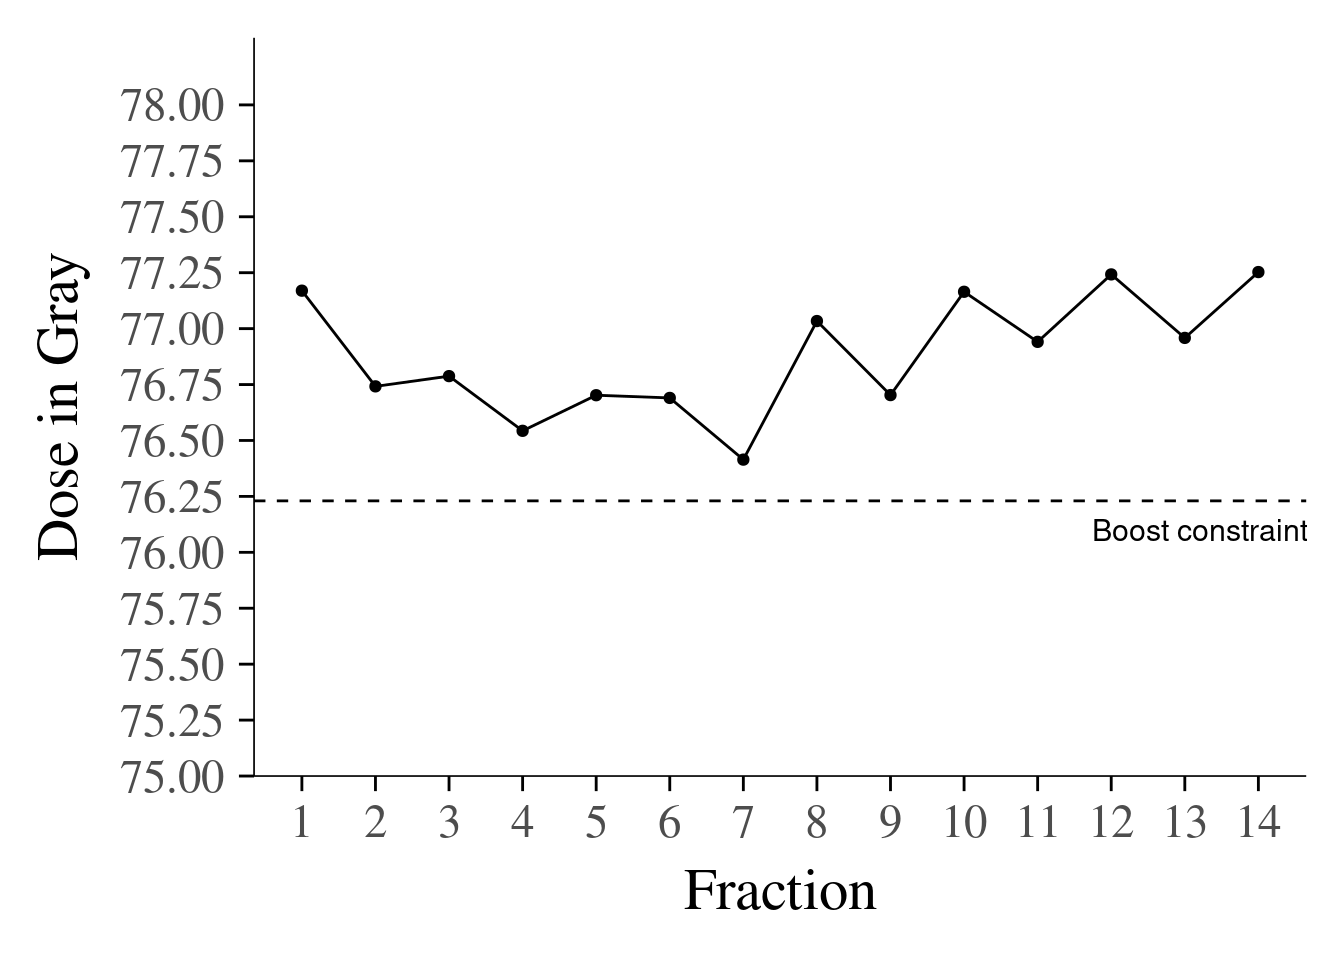
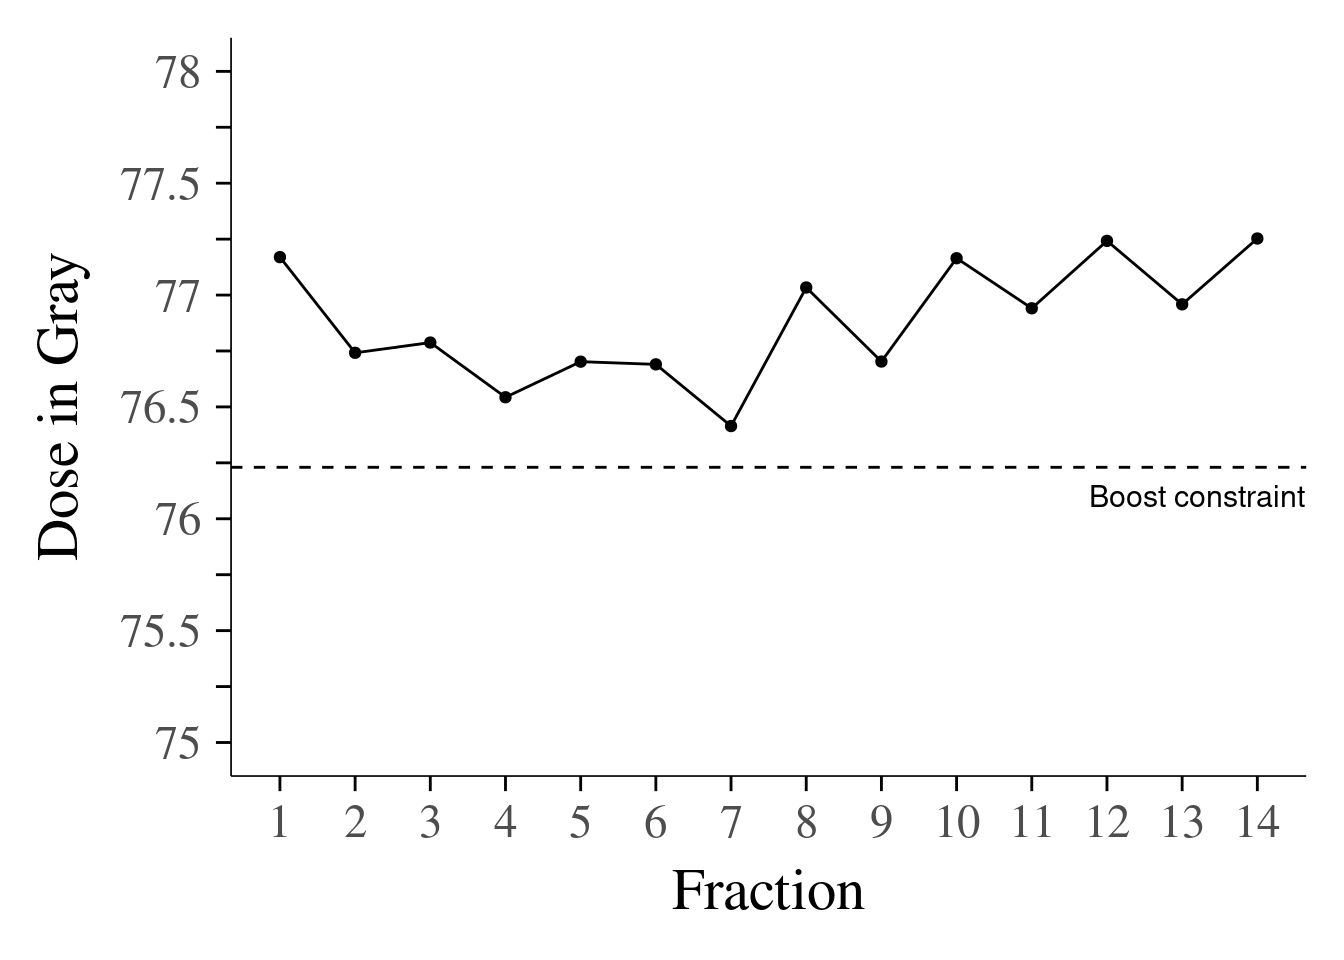
Build site.

diff --git a/docs/ggplot2.html b/docs/ggplot2.html
@@ -416,7 +416,7 @@ div.tocify {
 <div class="tab-content">
 <div id="summary" class="tab-pane fade in active">
 <p>
-<strong>Last updated:</strong> 2020-06-24
+<strong>Last updated:</strong> 2020-06-25
 </p>
 <p>
 <strong>Checks:</strong> <span class="glyphicon glyphicon-ok text-success" aria-hidden="true"></span> 7 <span class="glyphicon glyphicon-exclamation-sign text-danger" aria-hidden="true"></span> 0
@@ -507,16 +507,16 @@ This reproducible <a href="http://rmarkdown.rstudio.com">R Markdown</a> analysis
 <div class="panel panel-default">
 <div class="panel-heading">
 <p class="panel-title">
-<a data-toggle="collapse" data-parent="#workflowr-checks" href="#strongRepositoryversionstrongahrefhttpsgithubcomdssrttnTesttree79cbddfe622cb08966271c11e73930d7aeec7d75targetblank79cbddfa"> <span class="glyphicon glyphicon-ok text-success" aria-hidden="true"></span> <strong>Repository version:</strong> <a href="https://github.com/dssrttn/Test/tree/79cbddfe622cb08966271c11e73930d7aeec7d75" target="_blank">79cbddf</a> </a>
+<a data-toggle="collapse" data-parent="#workflowr-checks" href="#strongRepositoryversionstrongahrefhttpsgithubcomdssrttnTesttree7e363b68e398801cfc88c8001064347234cc97cctargetblank7e363b6a"> <span class="glyphicon glyphicon-ok text-success" aria-hidden="true"></span> <strong>Repository version:</strong> <a href="https://github.com/dssrttn/Test/tree/7e363b68e398801cfc88c8001064347234cc97cc" target="_blank">7e363b6</a> </a>
 </p>
 </div>
[2 lines of base64/hex data omitted]
 <div class="panel-body">
 <p>
 Great! You are using Git for version control. Tracking code development and connecting the code version to the results is critical for reproducibility.
 </p>
 <p>
-The results in this page were generated with repository version <a href="https://github.com/dssrttn/Test/tree/79cbddfe622cb08966271c11e73930d7aeec7d75" target="_blank">79cbddf</a>. See the <em>Past versions</em> tab to see a history of the changes made to the R Markdown and HTML files.
+The results in this page were generated with repository version <a href="https://github.com/dssrttn/Test/tree/7e363b68e398801cfc88c8001064347234cc97cc" target="_blank">7e363b6</a>. See the <em>Past versions</em> tab to see a history of the changes made to the R Markdown and HTML files.
 </p>
 <p>
 Note that you need to be careful to ensure that all relevant files for the analysis have been committed to Git prior to generating the results (you can use <code>wflow_publish</code> or <code>wflow_git_commit</code>). workflowr only checks the R Markdown file, but you know if there are other scripts or data files that it depends on. Below is the status of the Git repository when the results were generated:
@@ -531,7 +531,6 @@ Ignored files:
 Untracked files:
     Untracked:  README.html
     Untracked:  analysis/ggpubr.Rmd
-    Untracked:  data/.~lock.DIL_1.csv#
     Untracked:  data/DIL_1.csv
 
 </code></pre>
@@ -571,6 +570,40 @@ Message
 </tr>
 </thead>
 <tbody>
+<tr>
+<td>
+Rmd
+</td>
+<td>
+<a href="https://github.com/dssrttn/Test/blob/7e363b68e398801cfc88c8001064347234cc97cc/analysis/ggplot2.Rmd" target="_blank">7e363b6</a>
+</td>
+<td>
+Mein Vorname
+</td>
+<td>
+2020-06-25
+</td>
+<td>
+Vor scale Paket
+</td>
+</tr>
+<tr>
+<td>
+html
+</td>
+<td>
+<a href="https://rawcdn.githack.com/dssrttn/Test/65c688fdfbf43c1b7319d97b144d8bd0d3615a22/docs/ggplot2.html" target="_blank">65c688f</a>
+</td>
+<td>
+Mein Vorname
+</td>
+<td>
+2020-06-24
+</td>
+<td>
+Build site.
+</td>
+</tr>
 <tr>
 <td>
 Rmd
@@ -670,9 +703,9 @@ Initiierung von ggplot2-Graphen
 <li>constraints: Farbige Legende</li>
 <li>für <strong>alle</strong> Dosisvorgaben einen Graph mit constraint Linie erstellen</li>
 <li>Prozent, die über den constraints liegen und in Tabelle überführen</li>
-<li></li>
+<li>csv-Tabelle in schöner auf webpage übernehmen?</li>
+<li>Konfidenzintervall?</li>
 </ul>
-<pre><code>Warning: `expand_scale()` is deprecated; use `expansion()` instead.</code></pre>
 <p><img src="figure/ggplot2.Rmd/DIL%20Mittelwert-1.png" width="672" style="display: block; margin: auto;" /></p>
 <p>
 <button type="button" class="btn btn-default btn-xs btn-workflowr btn-workflowr-fig" data-toggle="collapse" data-target="#fig-no-spaces-DIL-Mittelwert-1">
@@ -699,55 +732,6 @@ Date
 <tr>
 <td>
 <a href="https://github.com/dssrttn/Test/blob/4cad95e34a6e435ff35bb70fc7931b31aea22244/docs/figure/ggplot2.Rmd/DIL Mittelwert-1.png" target="_blank">4cad95e</a>
-</td>
-<td>
-Mein Vorname
-</td>
-<td>
-2020-06-24
-</td>
-</tr>
-</tbody>
-</table>
-</div>
-</div>
-<p><img src="figure/ggplot2.Rmd/unnamed-chunk-1-1.png" width="672" style="display: block; margin: auto;" /></p>
-<p>
-<button type="button" class="btn btn-default btn-xs btn-workflowr btn-workflowr-fig" data-toggle="collapse" data-target="#fig-unnamed-chunk-1-1">
-Past versions of unnamed-chunk-1-1.png
-</button>
-</p>
-<div id="fig-unnamed-chunk-1-1" class="collapse">
-<div class="table-responsive">
-<table class="table table-condensed table-hover">
-<thead>
-<tr>
-<th>
-Version
-</th>
-<th>
-Author
-</th>
-<th>
-Date
-</th>
-</tr>
-</thead>
-<tbody>
-<tr>
-<td>
-<a href="https://github.com/dssrttn/Test/blob/4cad95e34a6e435ff35bb70fc7931b31aea22244/docs/figure/ggplot2.Rmd/unnamed-chunk-1-1.png" target="_blank">4cad95e</a>
-</td>
-<td>
-Mein Vorname
-</td>
-<td>
-2020-06-24
-</td>
-</tr>
-<tr>
-<td>
-<a href="https://github.com/dssrttn/Test/blob/1d912516e73096c1b4bd8a517bdec0b3ed4dde58/docs/figure/ggplot2.Rmd/unnamed-chunk-1-1.png" target="_blank">1d91251</a>
 </td>
 <td>
 Mein Vorname
@@ -884,7 +868,7 @@ attached base packages:
 [1] stats     graphics  grDevices utils     datasets  methods   base     
 
 other attached packages:
-[1] ggthemes_4.2.0  ggplot2_3.3.2   workflowr_1.6.2
+[1] ggplot2_3.3.2   workflowr_1.6.2
 
 loaded via a namespace (and not attached):
  [1] Rcpp_1.0.4.6     compiler_4.0.1   pillar_1.4.4     later_1.1.0.1   
